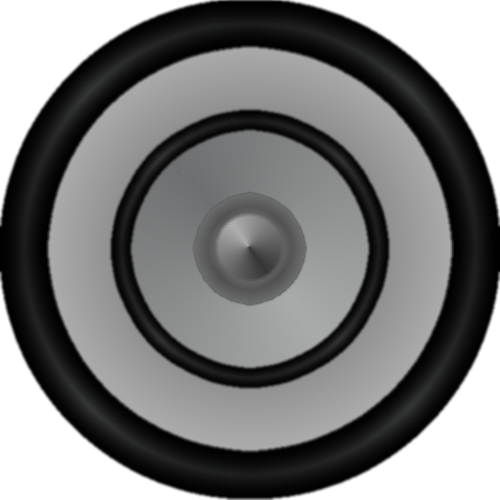
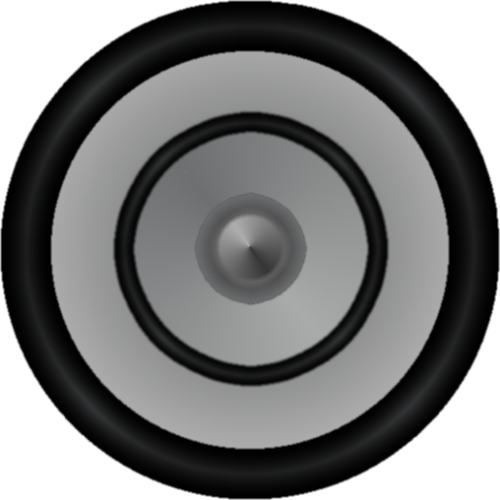
Finalized the new speaker visualization, now has five speakers :-D  Use the scrol wheel to switch between the two
git-svn-id: svn://localhost/tmp/konfetka/trunk@113 aaffa179-fd03-4778-91ff-b08a3235a277

diff --git a/src/basicvis.cpp b/src/basicvis.cpp
@@ -15,6 +15,14 @@ BasicVis::BasicVis(DataBackend * c,QWidget* parent,Qt::WindowFlags f):QWidget(pa
 	fullSpeaker = QImage(":images/speaker.png").scaled(150,150, Qt::IgnoreAspectRatio,Qt::SmoothTransformation);
 	smallSpeaker = fullSpeaker.scaled(145,145, Qt::IgnoreAspectRatio,Qt::SmoothTransformation);
 	
+	type = SPEAKER;
+
+	t1 = 0;
+	t2 = 0;
+	t3 = 0;
+	t4 = 0;
+	sub = 0;
+	
 	timeline.setFrameRange(0,fps);
 	timeline.setCurveShape(QTimeLine::LinearCurve);
 	connect(&timeline,SIGNAL(frameChanged(int)),this,SLOT(paintNext(int)));
@@ -26,6 +34,31 @@ BasicVis::BasicVis(DataBackend * c,QWidget* parent,Qt::WindowFlags f):QWidget(pa
 
 void BasicVis::paintNext(int val) {
 	update();
+	if(t1 && t2 && t3 && t4 && sub) {
+		srand(time(NULL));
+		if(rand()%2);
+		t1->updateSpeaker();
+		if(rand()%2);
+		t2->updateSpeaker();
+		if(rand()%2);
+		t3->updateSpeaker();
+		if(rand()%2);
+		t4->updateSpeaker();
+		sub->updateSpeaker();
+	}
+}
+
+void BasicVis::resizeEvent(QResizeEvent * event) {
+	std::cout<<height()<<" "<<width()<<std::endl;
+	if(!t1 && !t2 && !t3 && !t4 && !sub) {
+	int subPos =  qMin(height(),width()-height());
+	t1 = new Speaker(conn,height()/2,height()/2,11000,2);
+	t2 = new Speaker(conn,height()/2,height()/2,11000,2);
+	t3 = new Speaker(conn,height()/2,height()/2,11000,2);
+	t4 = new Speaker(conn,height()/2,height()/2,11000,2);
+		if(subPos <= 0) subPos = 1; 
+		sub = new Speaker(conn,subPos,subPos,11000,5);
+	}
 }
 
 void BasicVis::timelineDone() {
@@ -42,6 +75,7 @@ void BasicVis::doAnimation() {
 void BasicVis::respondToConfigChange(QString name,QVariant value) {
 	if(name == "konfetka/visFps") {
 	fps = value.toInt();
+	timeline.setFrameRange(0,fps);
 	}
 	else if(name == "konfetka/visNumBars") {
 	numBars = value.toInt();
@@ -50,37 +84,42 @@ void BasicVis::respondToConfigChange(QString name,QVariant value) {
 
 void BasicVis::paintEvent(QPaintEvent * event) {
 	QPainter painter(this);
-	
-	int x,y;
-	x = (width()-150)/2; y = (height()-150)/2;
-	painter.eraseRect(geometry());
-		painter.drawImage(x,y,fullSpeaker);
-		if(timeline.currentFrame()%3==0) {
-			painter.eraseRect(geometry());
-			painter.drawImage(x+2,y+2,smallSpeaker);
+// 	std::cout<<width()<<" "<<height()<<std::endl;
+	if(type == SPEAKER) {
+		if(t1 && t2 && t3 && t4 && sub) {
+		int subPos =  qMin(height(),width()-height());
+		int subX = qMax(height()/2,height()/2+(width()-height()-subPos)/2);
+// 		painter.eraseRect(0,0,width(),height());
+		painter.drawPixmap(0,0,QPixmap::grabWidget(t1));
+		painter.drawPixmap(width()-height()/2,0,QPixmap::grabWidget(t2));
+		painter.drawPixmap(0,height()/2,QPixmap::grabWidget(t3));
+		painter.drawPixmap(width()-height()/2,height()/2,QPixmap::grabWidget(t4));
+			if(subX > 0) {
+			painter.drawPixmap(subX,0,QPixmap::grabWidget(sub));
+			}
 		}
-	
-	return;
-
-	if(secondsRunning == 0 || numBars == 0 || fps == 0) {
-		if(numBars == 0 || fps == 0)
-			timeline.stop();
-		painter.eraseRect(geometry());
-		return;
 	}
-	
-	painter.setBrush(*linearGrad);
-	painter.setPen(QPen(Qt::white));
-	int w = width() / numBars;
-	int step = height() / numBars;
-	int tmp = initY;
-	initY = initY + 1; 
-	if(initY> height()) initY = (initY-height());
+	else if(type == SPECTRUM) {
+		if(secondsRunning == 0 || numBars == 0 || fps == 0) {
+			if(numBars == 0 || fps == 0)
+				timeline.stop();
+			painter.eraseRect(geometry());
+		return;
+		}
 		
-	for(int i = 0; i < numBars;i++) {
-		tmp = tmp + step; 
-		if(tmp> height()) tmp = (tmp-height());
-		painter.drawRect(i*w,tmp,w,height());
+		painter.setBrush(*linearGrad);
+		painter.setPen(QPen(Qt::white));
+		int w = width() / numBars;
+		int step = height() / numBars;
+		int tmp = initY;
+		initY = initY + 1; 
+		if(initY> height()) initY = (initY-height());
+		
+		for(int i = 0; i < numBars;i++) {
+			tmp = tmp + step; 
+			if(tmp> height()) tmp = (tmp-height());
+			painter.drawRect(i*w,tmp,w,height());
+		}
 	}
 }
 
@@ -93,7 +132,54 @@ void BasicVis::mousePressEvent(QMouseEvent * event) {
 		timeline.start();
 		} else {timeline.stop();}
 	}
-	
+	update();
 }
+
+void BasicVis::wheelEvent(QWheelEvent * event){
+	int t;
+	if(event->delta()>0) t = type + 1;
+	if(event->delta()<0) t = type - 1;
+		if(t>1 || t ==0) {
+		type = SPEAKER;
+		}
+		else {
+		type = SPECTRUM;
+		}
+}
+
+/***********************************- Speaker- *****************************************/ 
+Speaker::Speaker(DataBackend * c,int w, int h,int freq,int delta,QWidget * parent, Qt::WindowFlags f ):QWidget(parent, f){
+	conn = c;
+	frequency = freq;
+	value = 0;
+	fullSpeaker = QImage(":images/speaker.png").scaled(w,h, Qt::IgnoreAspectRatio,Qt::SmoothTransformation);
+	smallSpeaker = fullSpeaker.scaled(w-delta,h-delta, Qt::IgnoreAspectRatio,Qt::SmoothTransformation);
+	resize(w,h);
+	this->delta = delta;
+	draw = true;
+}
+
+void Speaker::paintEvent(QPaintEvent * ev) {
+	QPainter painter(this);
+	painter.drawImage(0,0,fullSpeaker);
+	if(draw) {
+// 	painter.eraseRect(0,0,width(),height());
+// 		std::cout<<"drawing "<<this<<std::endl;
+		if(value%2==0) {
+// 			painter.eraseRect(0,0,width(),height());
+			painter.drawImage(delta/2,delta/2,smallSpeaker);
+		}
+	draw = false;
+	}
+}
+
+void Speaker::updateSpeaker() {
+	value = (value + 1) % 100;
+	draw = true;
+	update();
+}
+
+/***************************************************************************************/
+
 #endif
 

diff --git a/src/basicvis.h b/src/basicvis.h
@@ -7,7 +7,7 @@
 #define BASICVIS_H
 #include "databackend.h"
 #include <QWidget>
-#include <QGridLayout>
+#include <QPixmap>
 #include <QRectF>
 #include <QTimer>
 #include <QTimeLine>
@@ -15,9 +15,13 @@
 #include <QLinearGradient>
 #include <QMouseEvent>
 
+enum VisType { SPEAKER, SPECTRUM };
+class Speaker;
+
 class BasicVis:public QWidget {
 Q_OBJECT
 	private:
+	VisType type;
 	DataBackend * conn;
 	int numBars; int fps; int secondsRunning; int initY;
 	QTimer timer;
@@ -26,6 +30,13 @@ Q_OBJECT
 	QImage fullSpeaker;
 	QImage smallSpeaker;
 
+	//For Speaker vis
+	Speaker * t1;
+	Speaker * t2;
+	Speaker * t3;
+	Speaker * t4;
+	Speaker * sub;
+
 	private slots:
 	void paintNext(int);
 	void timelineDone();
@@ -33,13 +44,32 @@ Q_OBJECT
 	public:
 	BasicVis(DataBackend * c,QWidget * parent = 0, Qt::WindowFlags f = 0);
 	void mousePressEvent(QMouseEvent * event);
-	
+	void paintEvent(QPaintEvent *);
+	void resizeEvent(QResizeEvent *);
+	void wheelEvent(QWheelEvent * event);
+
 	public slots:
 	void setNumAndLen(int,int);
-	void paintEvent(QPaintEvent *);
 	void respondToConfigChange(QString,QVariant);
 	void doAnimation();
 };
+
+class Speaker:public QWidget {
+Q_OBJECT
+	private:
+	DataBackend * conn;
+	QImage fullSpeaker;
+	QImage smallSpeaker;
+	int frequency;
+	int value; int delta;
+	bool draw;
+
+	public: 
+	Speaker(DataBackend * c,int w, int h,int freq,int delta,QWidget * parent = 0, Qt::WindowFlags f = 0);
+	void paintEvent(QPaintEvent *);
+	void updateSpeaker();
+};
+
 
 
 #endif
